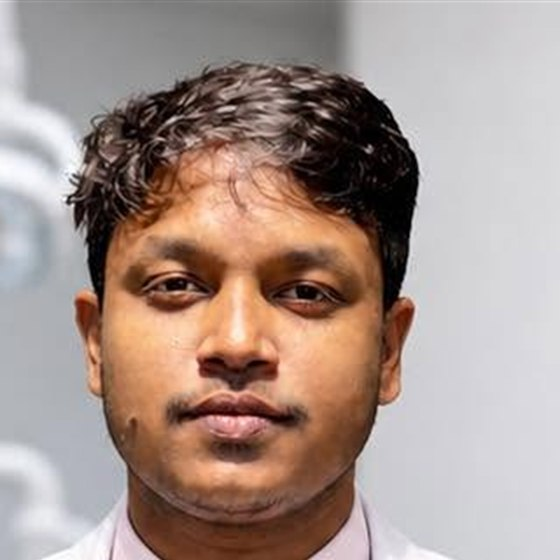
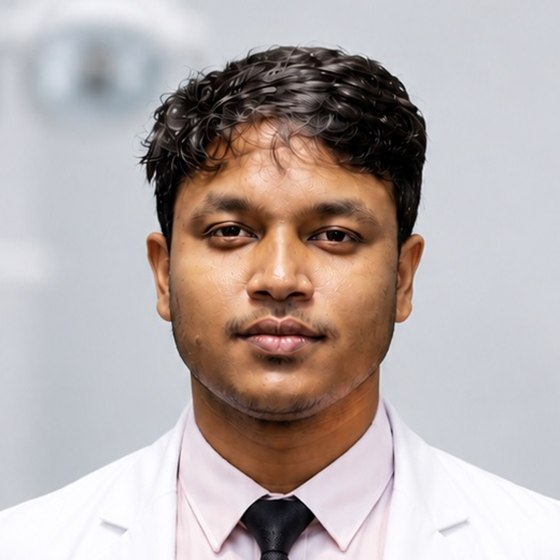
Use the two new photographs; no image repeats within a view
Both new files are a clear step up: the chamber is properly lit and clean, and
the coat portrait is a studio shot with the face already centred — measured at
x=430 in an 853px frame whose centre is x=426, so the crops take it straight
down the middle rather than nudging it.

The blue scrubs shot was on the phone hero and nowhere at all on desktop, which
is what prompted this. The fix is art direction on two slots rather than one
image stretched across both, because the hero itself swaps between the chamber
and the doctor, and whatever the hero shows the section beneath it must not
repeat:

  Hero                desktop the chamber   phone the blue scrubs
  Home introduction   desktop the scrubs    phone the coat portrait
  Introduction inset  desktop hidden        phone the chamber

So the scrubs shot now appears on desktop directly under the hero, as asked,
and on a phone it is the hero itself. The chamber leads on desktop and appears
as the inset on a phone. The coat portrait carries the why-us pane, the team
card, and the phone introduction. Verified by walking the rendered DOM at both
widths: eleven images on the home page at 1366, five at 390, no duplicates in
either.

The old generated clinic room is gone from the hero — there is a real
photograph of the real room to use now.

diff --git a/src/sections/Hero.jsx b/src/sections/Hero.jsx
@@ -13,22 +13,16 @@ export default function Hero() {
   return (
     <section className="hero" aria-label={identity.brandName}>
       <div className="hero__media">
-        {/* Two different photographs, not two crops of one.
-
-            Desktop gets the room: the band is wide, the circle card sits in the
-            left third and a scene fills the rest, which is what the reference
-            layout does.
-
-            A phone gets him. The band there is a portrait window barely wider
-            than the card, and an empty room in it reads as stock — it could be
-            any clinic. This is a portfolio for one dentist, so the small screen
-            leads with his face and his name badge. The browser downloads only
-            the one it matches. */}
+        {/* Two different photographs, not two crops of one. Desktop gets the
+            chamber — the band is wide, the circle card takes the left third and
+            a room fills the rest. A phone gets him, because the band there is a
+            portrait window barely wider than the card and a room in it reads as
+            stock. The browser downloads only the one it matches. */}
         <Photo
           src="hero-clinic.jpg"
           sources={[{ media: '(max-width: 899px)', src: 'hero-mobile.jpg' }]}
           alt=""
-          ratio="1200/806"
+          ratio="1448/1086"
           shape="flat"
           priority
           className="hero__photo"

diff --git a/src/sections/AboutIntro.jsx b/src/sections/AboutIntro.jsx
@@ -25,8 +25,13 @@ export default function AboutIntro() {
     <section className="section about-intro">
       <div className="container about-intro__grid">
         <Reveal className="about-intro__media">
+          {/* Art-directed so no photograph appears twice in one view. On
+              desktop this is the blue scrubs shot, which the hero does not use
+              there — the hero is the chamber. On a phone the hero IS the scrubs
+              shot, so this becomes the coat portrait instead. */}
           <Photo
             src="dr-arman-portrait.jpg"
+            sources={[{ media: '(max-width: 899px)', src: 'dr-arman-portrait-sm.jpg' }]}
             alt={`${identity.name}, ${identity.title}`}
             ratio="3/4"
             shape="media"

diff --git a/src/sections/AboutIntro.css b/src/sections/AboutIntro.css
@@ -205,10 +205,10 @@
     border-radius: var(--r-media);
   }
 
-  /* White ring around the inset, the way the reference separates two
-     overlapping photographs instead of letting them touch. */
+  /* Hidden from 768px up: the hero on that breakpoint IS the chamber, so
+     repeating it here would be the same room twice on one screen. */
   .about-intro__inset {
-    display: block;
+    display: none;
     position: absolute;
     right: 0;
     bottom: 0;

diff --git a/public/images/README.md b/public/images/README.md
@@ -7,26 +7,25 @@ This matters, so it is stated plainly.
 **Photographs of Dr. Arman** — every one is a real photograph of him, cropped
 from the originals kept in `_source/`. None is generated, and none should be.
 
-He appears four times and no two use the same outfit, because one photograph
-stretched across every slot made the site look like it had a single asset:
+No photograph appears twice in a single view. Two slots are art-directed —
+they load a different file on a phone than on a desktop — because the hero
+swaps between the chamber and the doctor, and whatever the hero shows, the
+section under it must not repeat.
 
-| File | Source | Where |
+| Slot | Desktop | Phone |
 | --- | --- | --- |
-| `dr-arman-portrait.jpg` | grey suit | Home introduction |
-| `why-qualified.jpg` | white coat | Home, "an oral & dental surgeon" |
-| `why-painless.jpg` | scrubs and mask, treating | Home, "painless treatment" |
-| `dr-arman-about.jpg` | blue scrubs, standing | About page |
-| `team-arman.jpg` | white coat, head and shoulders | About page team card |
+| Hero | `hero-clinic.jpg` — the chamber | `hero-mobile.jpg` — blue scrubs by the signage |
+| Home introduction | `dr-arman-portrait.jpg` — blue scrubs | `dr-arman-portrait-sm.jpg` — the coat portrait |
+| Introduction inset | hidden; the hero is already the chamber | `chamber-interior.jpg` — the chamber |
+| "An oral & dental surgeon" | `why-qualified.jpg` — the coat portrait | pane hidden on phones |
+| "Painless treatment" | `why-painless.jpg` — him treating a patient | pane hidden on phones |
+| About page portrait | `dr-arman-about.jpg` — grey suit | same |
+| Team card | `team-arman.jpg` — coat portrait, head and shoulders | same |
 
-The hero carries two different photographs, chosen by viewport rather than
-cropped from one — see the `sources` prop on `Photo`:
+The coat portrait is centred to the pixel: his face sits at x=430 in an 853px
+frame whose centre is x=426, so the crops take it straight down the middle
+rather than nudging it.
 
-| File | Shown | Why |
-| --- | --- | --- |
-| `hero-clinic.jpg` | 900px and up | The band is wide, the circle card takes the left third and a room fills the rest, as the reference layout does. |
-| `hero-mobile.jpg` | below 900px | The band is a portrait window barely wider than the card. A room there reads as stock — it could be any clinic. This is one dentist's portfolio, so the phone leads with his face and name badge. |
-
-The browser downloads only the one it matches.
 
 `why-painless.jpg` is a real clinical photograph of him treating a patient —
 the only one on the site showing actual treatment, and the most credible image
